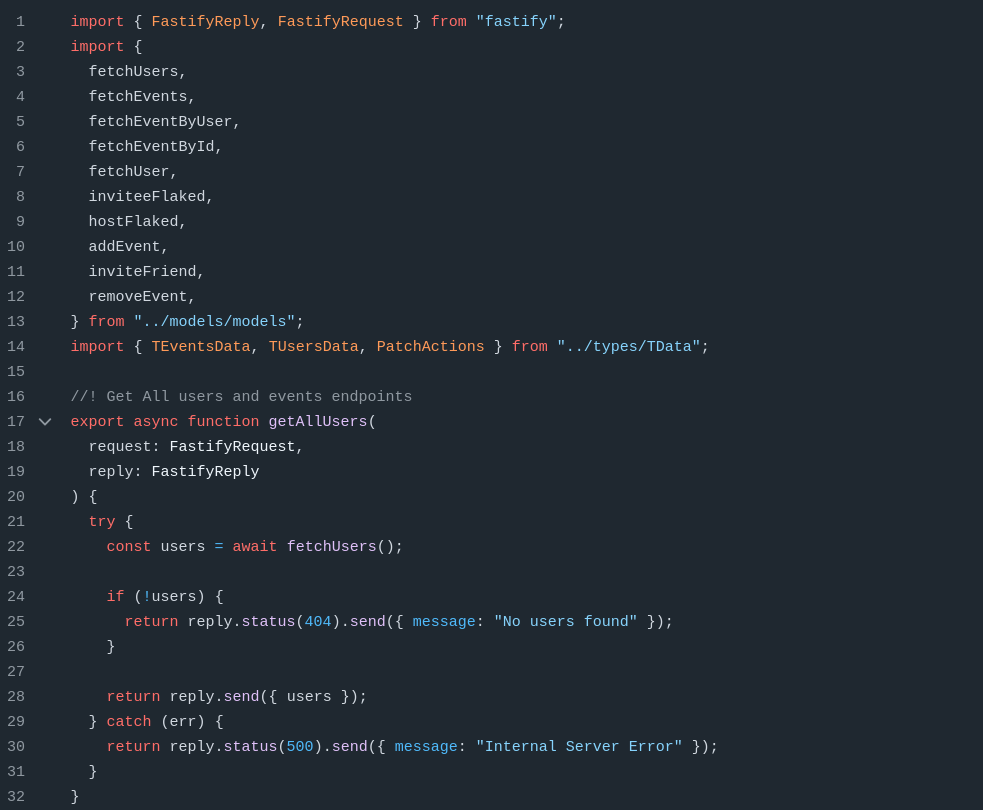
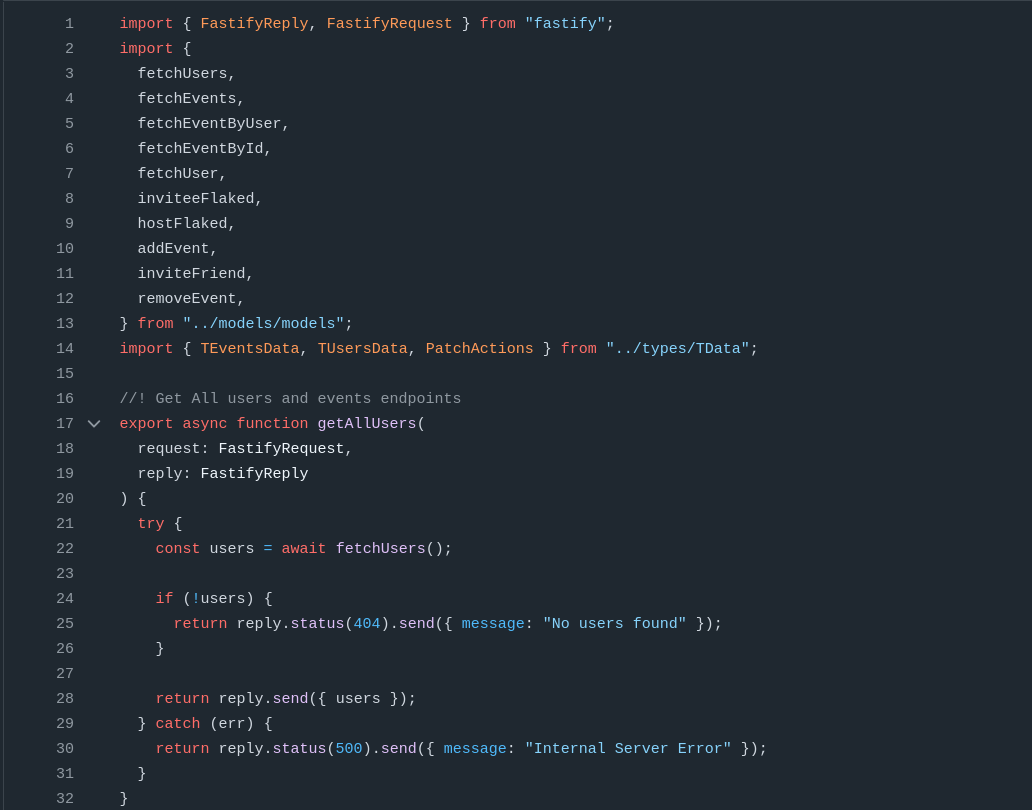
changed the layout of tech badges

diff --git a/src/components/sections/About.tsx b/src/components/sections/About.tsx
@@ -2,7 +2,17 @@ import CardComp from "../global/CardComp";
 import profileImage from "../../assets/Me.jpg";
 import TechBadge from "../global/TechBadge";
 import { FaJava, FaReact } from "react-icons/fa";
-import { SiExpress, SiGnubash, SiJest, SiPostgresql, SiTypescript } from "react-icons/si";
+import {
+  SiExpress,
+  SiFastify,
+  SiGnubash,
+  SiHeroku,
+  SiJest,
+  SiPostgresql,
+  SiRender,
+  SiSupabase,
+  SiTypescript,
+} from "react-icons/si";
 import { IoLogoJavascript } from "react-icons/io";
 import { SiCsharp } from "react-icons/si";
 import { RiTailwindCssFill } from "react-icons/ri";
@@ -16,25 +26,43 @@ const About = () => {
       <CardComp
         image={profileImage}
         title="Full Stack Developer"
-        description="Self taught programmer, forever a student, "
+        description="Self taught programmer, forever a student"
         header="About Me"
       >
         <div className="px-2">
-          <h1>Languages & FrameWorks:</h1>
+          <h1>Languages:</h1>
+        </div>
+        <div className="flex flex-row flex-wrap gap-2">
+          <TechBadge icon={<SiCsharp />} name="C#" />
+          <TechBadge icon={<SiTypescript />} name="TypeScript" />
+          <TechBadge icon={<IoLogoJavascript />} name="JavaScript" />
+          <TechBadge icon={<SiPostgresql />} name="PSQL" />
+          <TechBadge icon={<FaJava />} name="Java" />
+          <TechBadge icon={<SiGnubash />} name="Bash Scripting" />
+        </div>
+        <div className="px-2 pt-4">
+          <h1>Frameworks:</h1>
         </div>
         <div className="flex flex-row flex-wrap gap-2">
           <TechBadge icon={<FaReact />} name="React" />
-          <TechBadge icon={<SiTypescript />} name="TypeScript" />
-          <TechBadge icon={<IoLogoJavascript />} name="JavaScript" />
-          <TechBadge icon={<SiCsharp />} name="C#" />
-          <TechBadge icon={<FaJava />} name="Java" />
-          <TechBadge icon={<SiPostgresql />} name="PSQL" />
           <TechBadge icon={<RiTailwindCssFill />} name="TailWindCSS" />
-          <TechBadge icon={<SiJest />} name="Jest" />
           <TechBadge icon={<SiExpress />} name="ExpressJs" />
-          <TechBadge icon={<SiGnubash />} name="Bash Scripting" />
+          <TechBadge icon={<SiFastify />} name="Fastify" />
+          <TechBadge icon={<SiJest />} name="Jest" />
         </div>
-        <div className="px-2 pt-8">
+
+        <div className="px-2 pt-4">
+          <h1>Hosting:</h1>
+        </div>
+        <div className="flex flex-row flex-wrap gap-2">
+          <TechBadge icon={<SiRender />} name="Render" />
+          <TechBadge icon={<SiHeroku />} name="Heroku" />
+          <TechBadge icon={<SiSupabase />} name="SupaBase" />
+        </div>
+
+
+
+        <div className="px-2 pt-4">
           <h1>UI Libraries:</h1>
         </div>
         <div className="flex flex-row flex-wrap gap-2">
